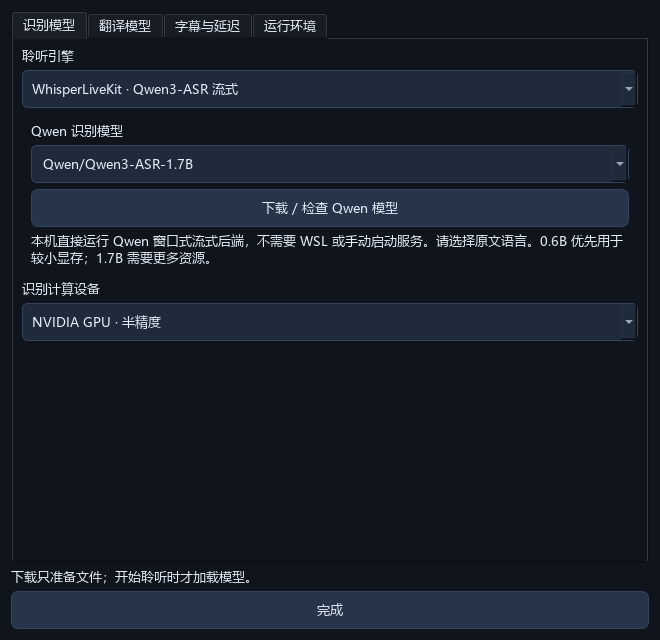
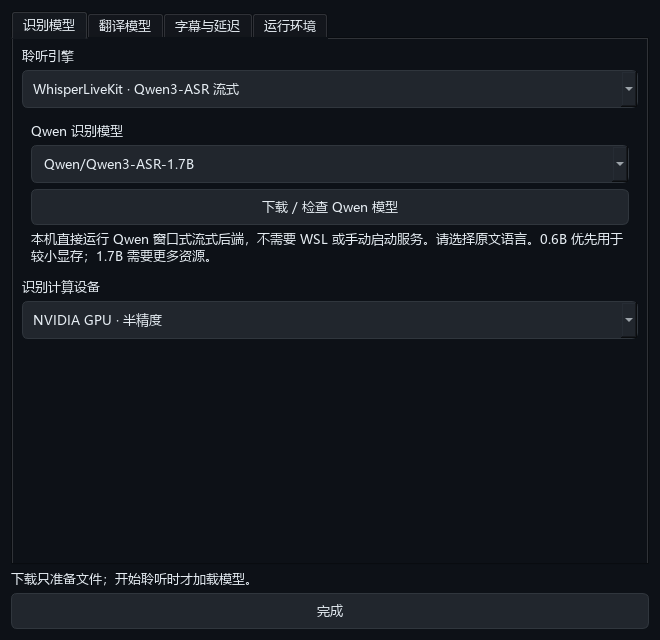
feat: refresh codex-style desktop interface

diff --git a/linguaflow/app.py b/linguaflow/app.py
@@ -30,29 +30,34 @@ from .management import ModelManager
 from .wlk_session import Session
 
 STYLE = """
-QWidget { background: #10151d; color: #e5edf8; font-family: 'Microsoft YaHei UI', 'PingFang SC', sans-serif; font-size: 13px; }
-QLabel#title { font-size: 28px; font-weight: 700; }
+QWidget { background: #0d1117; color: #e6edf3; font-family: 'Microsoft YaHei UI', 'PingFang SC', sans-serif; font-size: 13px; }
+QLabel#title { font-size: 30px; font-weight: 700; letter-spacing: 0.5px; }
 QLabel#muted { color: #94a5bd; }
-QLabel#section { color: #7ee0c3; font-size: 12px; font-weight: 700; }
-QFrame#panel { background: #171f2b; border: 1px solid #2a3647; border-radius: 12px; }
+QLabel#section { color: #8b949e; font-size: 11px; font-weight: 700; letter-spacing: 1px; }
+QLabel#eyebrow { color: #79c0ff; font-size: 12px; font-weight: 600; }
+QFrame#panel { background: #161b22; border: 1px solid #30363d; border-radius: 10px; }
 QFrame#panel QLabel { background: transparent; }
-QComboBox, QSpinBox, QDoubleSpinBox { background: #1f2a3a; border: 1px solid #35455b;
-    padding: 9px; border-radius: 6px; min-height: 18px; }
-QComboBox QAbstractItemView { background: #1f2a3a; selection-background-color: #365b69; }
-QPushButton { background: #263549; border: 1px solid #35455b; border-radius: 7px; padding: 10px 17px; }
-QPushButton:hover { background: #344860; }
-QPushButton#primary { background: #69dfbd; color: #0d2823; font-weight: 700; border: none; }
-QPushButton:disabled { color: #66758a; background: #1c2532; }
-QProgressBar { background: #263549; border: none; border-radius: 3px; max-height: 6px; }
-QProgressBar::chunk { background: #69dfbd; border-radius: 3px; }
-QScrollArea { border: none; }
-QScrollBar:vertical { background: #10151d; width: 8px; margin: 0; }
-QScrollBar::handle:vertical { background: #35455b; min-height: 28px; border-radius: 4px; }
+QComboBox, QSpinBox, QDoubleSpinBox { background: #21262d; border: 1px solid #30363d;
+    padding: 9px 10px; border-radius: 6px; min-height: 18px; }
+QComboBox:hover, QSpinBox:hover, QDoubleSpinBox:hover { border-color: #58a6ff; }
+QComboBox QAbstractItemView { background: #161b22; selection-background-color: #1f6feb; }
+QPushButton { background: #21262d; border: 1px solid #30363d; border-radius: 6px; padding: 9px 14px; color: #e6edf3; }
+QPushButton:hover { background: #30363d; border-color: #8b949e; }
+QPushButton#primary { background: #238636; color: #ffffff; font-weight: 700; border: 1px solid #2ea043; padding: 11px 23px; }
+QPushButton#primary:hover { background: #2ea043; }
+QPushButton#secondary { background: #1f6feb; color: white; border-color: #388bfd; }
+QPushButton:disabled { color: #6e7681; background: #161b22; border-color: #21262d; }
+QProgressBar { background: #21262d; border: none; border-radius: 3px; max-height: 5px; }
+QProgressBar::chunk { background: #2ea043; border-radius: 3px; }
+QScrollArea { border: none; background: transparent; }
+QScrollBar:vertical { background: #0d1117; width: 8px; margin: 0; }
+QScrollBar::handle:vertical { background: #30363d; min-height: 28px; border-radius: 4px; }
 QScrollBar::add-line:vertical, QScrollBar::sub-line:vertical { height: 0; }
 QScrollBar::add-page:vertical, QScrollBar::sub-page:vertical { background: none; }
 QSplitter::handle { background: #10151d; width: 16px; }
 QCheckBox { spacing: 8px; padding: 4px 0; }
-QToolTip { background: #263549; color: white; border: 1px solid #526681; }
+QPlainTextEdit { background: #0d1117; border: 1px solid #21262d; border-radius: 6px; padding: 6px; }
+QToolTip { background: #161b22; color: white; border: 1px solid #8b949e; }
 """
 
 
@@ -63,6 +68,18 @@ def label(text, name=None):
     if name:
         widget.setObjectName(name)
     return widget
+
+
+def panel(title, subtitle=None):
+    frame = QFrame()
+    frame.setObjectName("panel")
+    layout = QVBoxLayout(frame)
+    layout.setContentsMargins(16, 14, 16, 14)
+    layout.setSpacing(9)
+    layout.addWidget(label(title, "section"))
+    if subtitle:
+        layout.addWidget(label(subtitle, "muted"))
+    return frame, layout
 
 
 class Overlay(QWidget):
@@ -140,17 +157,18 @@ class Window(QMainWindow):
         header = QHBoxLayout()
         heading = QVBoxLayout()
         heading.addWidget(label("LinguaFlow", "title"))
-        heading.addWidget(label("听见世界，用你的语言。", "muted"))
+        heading.addWidget(label("本地实时字幕工作台  ·  音频留在你的设备上", "muted"))
         header.addLayout(heading)
         header.addStretch()
-        header.addWidget(label("●  LOCAL FIRST", "section"))
+        header.addWidget(label("●  LOCAL FIRST", "eyebrow"))
         layout.addLayout(header)
         split = QSplitter()
         layout.addWidget(split, 1)
         self.settings_panel = QWidget()
+        self.settings_panel.setObjectName("settingsPanel")
         form_outer = QVBoxLayout(self.settings_panel)
         form_outer.setContentsMargins(0, 0, 12, 0)
-        form_outer.addWidget(label("01 / 音频与语言", "section"))
+        form_outer.addWidget(label("工作区配置", "section"))
         form = QFormLayout()
         form.setRowWrapPolicy(QFormLayout.RowWrapPolicy.WrapAllRows)
         form.setSpacing(10)
@@ -217,10 +235,11 @@ class Window(QMainWindow):
             )
         )
         self.model_manager.finish_setup(self)
-        form_outer.addWidget(label("02 / 聆听引擎", "section"))
+        form_outer.addWidget(label("当前引擎", "section"))
         self.model_summary = label("", "muted")
         form_outer.addWidget(self.model_summary)
-        manage = QPushButton("模型管理 · 下载与设置")
+        manage = QPushButton("打开模型管理")
+        manage.setObjectName("secondary")
         manage.clicked.connect(self.manage_models)
         form_outer.addWidget(manage)
         form_outer.addWidget(label("原文先出现，并随后文修正。\n确认短句后，逐句显示译文。", "muted"))
@@ -233,11 +252,20 @@ class Window(QMainWindow):
         right_layout = QVBoxLayout(right)
         right_layout.setContentsMargins(4, 0, 0, 0)
         toolbar = QHBoxLayout()
-        toolbar.addWidget(label("实时双语字幕", "section"))
+        toolbar.addWidget(label("实时双语字幕", "title"))
+        toolbar.addWidget(label("LIVE", "eyebrow"))
         toolbar.addStretch()
         diagnostics_button = QPushButton("诊断记录")
         diagnostics_button.setCheckable(True)
         toolbar.addWidget(diagnostics_button)
+        clear_button = QPushButton("清空")
+        clear_button.setToolTip("清除当前字幕，不影响模型和设置")
+        clear_button.clicked.connect(self.clear_captions)
+        toolbar.addWidget(clear_button)
+        copy_button = QPushButton("复制最新")
+        copy_button.setToolTip("复制最新一条原文和译文")
+        copy_button.clicked.connect(self.copy_latest)
+        toolbar.addWidget(copy_button)
         overlay_button = QPushButton("悬浮字幕")
         overlay_button.clicked.connect(self.toggle_overlay)
         toolbar.addWidget(overlay_button)
@@ -563,6 +591,14 @@ class Window(QMainWindow):
 
     def toggle_overlay(self):
         self.overlay.setVisible(not self.overlay.isVisible())
+
+    def copy_latest(self):
+        if not self.captions:
+            self.status.setText("还没有可复制的字幕")
+            return
+        caption = self.captions[max(self.captions)]
+        QApplication.clipboard().setText("\n".join(x for x in (caption.source, caption.translation) if x))
+        self.status.setText("已复制最新字幕")
 
     def export(self):
         path, _ = QFileDialog.getSaveFileName(self, "导出双语字幕", "字幕.srt", "SubRip 字幕 (*.srt)")

diff --git a/tests/test_model_cache.py b/tests/test_model_cache.py
@@ -2,6 +2,8 @@ import json
 import sys
 from types import SimpleNamespace
 
+import pytest
+
 from linguaflow.model_cache import has_weights, resolve_translation
 
 
@@ -45,10 +47,10 @@ def test_download_selects_one_weight_format(monkeypatch):
     assert resolve_translation("test/model", False, lambda s: None) == "downloaded"
     assert "*.safetensors" in calls[-1]["allow_patterns"]
     assert "*.bin" not in calls[-1]["allow_patterns"]
+
+
 def test_incomplete_qwen_is_rejected_before_listening(tmp_path):
-    import pytest
     from linguaflow.model_cache import resolve_qwen_cached
     (tmp_path / "model-00001-of-00002.safetensors").write_bytes(b"partial")
     with pytest.raises(ValueError, match="模型未下载完整"):
         resolve_qwen_cached(str(tmp_path))
-

diff --git a/docs/PROJECT_STRUCTURE.md b/docs/PROJECT_STRUCTURE.md
@@ -1,0 +1,16 @@
+# Project structure
+
+LinguaFlow keeps the desktop shell, model runtime, documentation, and verification fixtures separate so a release can be inspected without opening the large model caches.
+
+```text
+linguaflow/       PySide6 desktop UI and session orchestration
+scripts/          installers, smoke tests, and preview generation
+tests/            unit tests and small, authored audio fixtures
+docs/             architecture, validation, screenshots, and notices
+requirements-runtime.txt  isolated WhisperLiveKit/Qwen runtime
+pyproject.toml    desktop package and development dependencies
+```
+
+The desktop `.venv` contains only the UI and model-management dependencies. Heavy ASR and translation dependencies live in `.venv-wlk`, which is created by `scripts/install_runtime.py` and is ignored by Git. Model weights remain in the user cache and are never committed to the repository.
+
+`wlk_session.py` owns the process boundary, `wlk_worker.py` owns the streaming pipeline, and `backends.py` contains translation adapters. This keeps Qt responsive while model inference runs in the isolated runtime.
